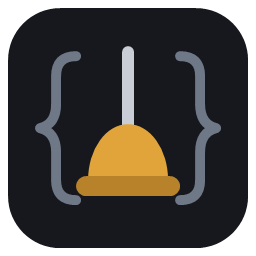
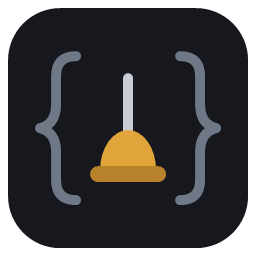
Shrink the plunger so it sits clear of the braces

Changed region(s): [[0.2812, 0.1562, 0.7188, 0.7812]]

diff --git a/src/ui/listing/widgets.cpp b/src/ui/listing/widgets.cpp
@@ -8,7 +8,7 @@ namespace ui {
 		render::canvas& c = canvas;
 		float k = height / 78.0f;
 		float stroke = base::max ( 5.0f * k, 1.25f );
-		float shaft = base::max ( 6.0f * k, 1.25f );
+		float shaft = base::max ( 5.0f * k, 1.25f );
 		render::color brace = ink ( tone::INK_FAINT );
 		render::color line = ink ( tone::INK_SOFT );
 		render::color brass = render::rgb ( 0xE0A43A );
@@ -56,15 +56,15 @@ namespace ui {
 
 		}
 
-		math::vec2 grip = at ( 64.0f, 26.0f );
-		math::vec2 cup = at ( 44.0f, 62.0f );
-		math::vec2 rim = at ( 38.0f, 88.0f );
+		math::vec2 grip = at ( 64.0f, 39.0f );
+		math::vec2 cup = at ( 50.0f, 65.0f );
+		math::vec2 rim = at ( 45.0f, 83.0f );
 
-		c.fill ( math::rect ( grip.x - shaft * 0.5f, grip.y - shaft * 0.5f, shaft, 42.0f * k + shaft ), shaft * 0.5f, line );
-		c.push_clip ( math::rect ( cup.x - 1.0f, cup.y - 1.0f, 40.0f * k + 2.0f, 28.0f * k + 1.0f ) );
-		c.fill ( math::rect ( cup.x, cup.y, 40.0f * k, 56.0f * k ), 20.0f * k, brass );
+		c.fill ( math::rect ( grip.x - shaft * 0.5f, grip.y - shaft * 0.5f, shaft, 30.0f * k + shaft ), shaft * 0.5f, line );
+		c.push_clip ( math::rect ( cup.x - 1.0f, cup.y - 1.0f, 28.0f * k + 2.0f, 20.0f * k + 1.0f ) );
+		c.fill ( math::rect ( cup.x, cup.y, 28.0f * k, 40.0f * k ), 14.0f * k, brass );
 		c.pop_clip ( );
-		c.fill ( math::rect ( rim.x, rim.y, 52.0f * k, 10.0f * k ), 5.0f * k, render::rgb ( 0xB8822A ) );
+		c.fill ( math::rect ( rim.x, rim.y, 38.0f * k, 8.0f * k ), 4.0f * k, render::rgb ( 0xB8822A ) );
 
 	}
 
